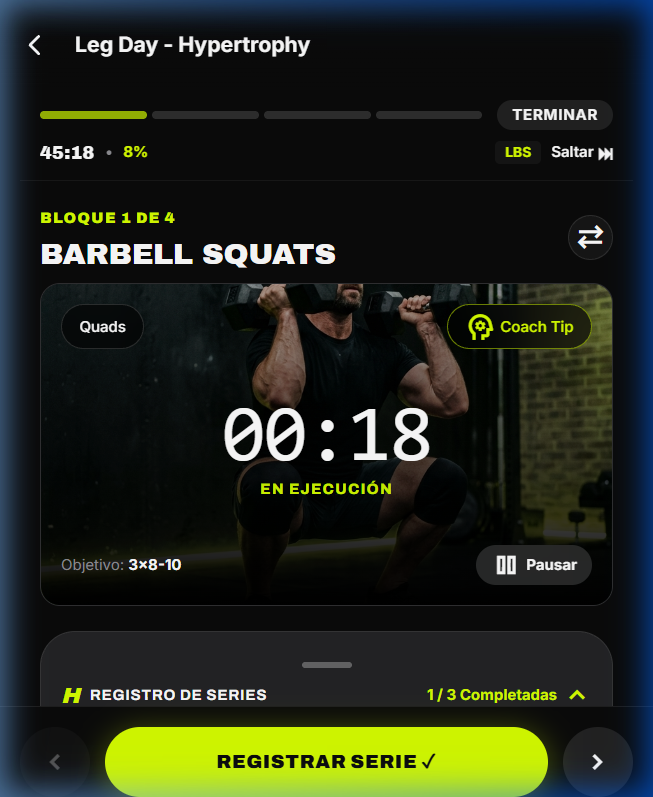
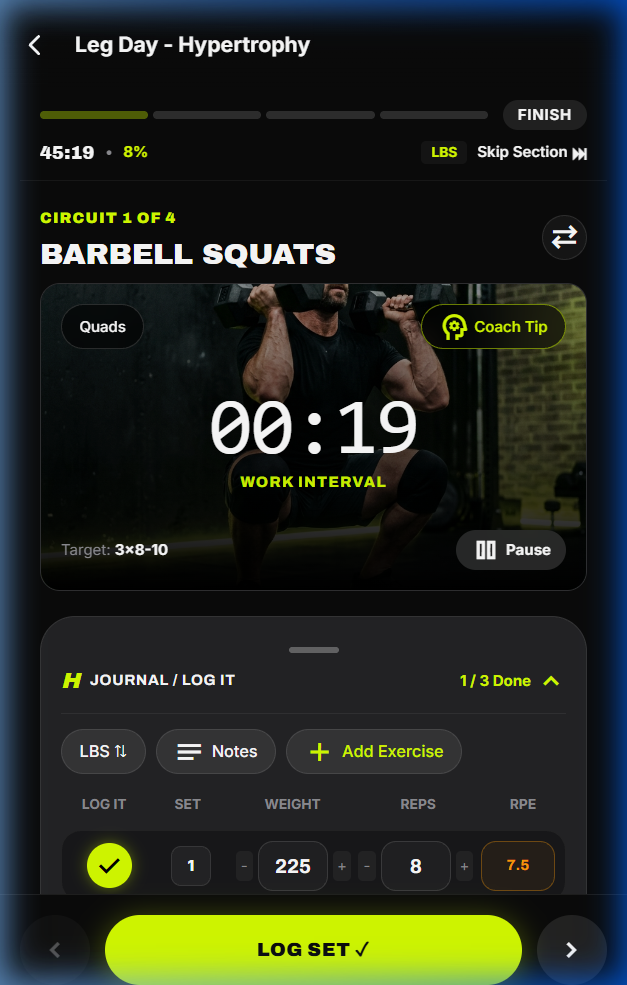
feat(store): update Play Store screenshots to 100% English

diff --git a/src/context/LanguageContext.tsx b/src/context/LanguageContext.tsx
@@ -13,6 +13,15 @@ const LanguageContext = createContext<LanguageContextProps | undefined>(undefine
 
 export const LanguageProvider: React.FC<{ children: React.ReactNode }> = ({ children }) => {
   const [language, setLanguageState] = useState<Language>(() => {
+    // 0. Check query parameter override (?lang=en or ?lang=es)
+    if (typeof window !== "undefined") {
+      const params = new URLSearchParams(window.location.search);
+      const urlLang = params.get("lang");
+      if (urlLang === "en" || urlLang === "es") {
+        localStorage.setItem("evolvy_lang", urlLang);
+        return urlLang;
+      }
+    }
     // 1. Check local storage preference
     const storedLang = localStorage.getItem("evolvy_lang") || localStorage.getItem("irontrack_lang");
     if (storedLang === "es" || storedLang === "en") {
